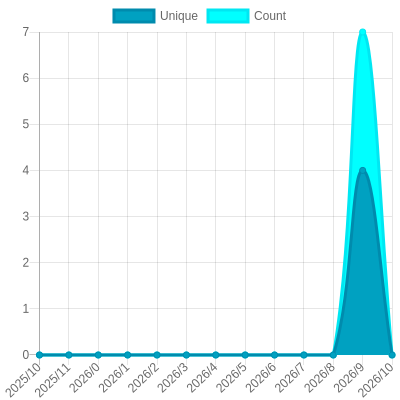
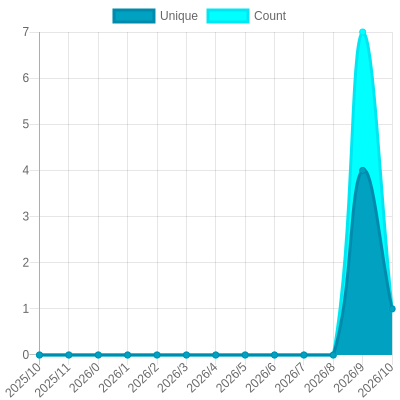
Update views

Changed region(s): [[0.87, 0.21, 0.99, 0.9]]

diff --git a/README.md b/README.md
@@ -26,7 +26,7 @@ The project created and maintained by [gayanvoice](https://github.com/gayanvoice
 			</a>
 		</td>
 		<td>
-			2025/11/2 6:53 PM UTC
+			2025/11/3 3:41 AM UTC
 		</td>
 		<td>
 			5
@@ -42,18 +42,18 @@ The project created and maintained by [gayanvoice](https://github.com/gayanvoice
 			</a>
 		</td>
 		<td>
-			2025/11/2 6:54 PM UTC
+			2025/11/3 3:41 AM UTC
 		</td>
 		<td>
-			4
+			5
 		</td>
 		<td>
-			<img alt="Response time graph" src="https://github.com/yy-Hu-xjtu/my-views-counter/raw/master/graph/1084704624/small/year.png" height="20"> 7
+			<img alt="Response time graph" src="https://github.com/yy-Hu-xjtu/my-views-counter/raw/master/graph/1084704624/small/year.png" height="20"> 8
 		</td>
 	</tr>
 </table>
 
-<small><i>Last updated on 2025/11/5 6:54 PM UTC</i></small>
+<small><i>Last updated on 2025/11/6 3:41 AM UTC</i></small>
 
 ## ✂Copy and 📋 Paste
 ### Total Views Badge

diff --git a/readme/1084704624/year.md b/readme/1084704624/year.md
@@ -23,10 +23,10 @@
 			<code>2025/11/1</code>
 		</td>
 		<td>
-			<code>0</code>
+			<code>1</code>
 		</td>
 		<td>
-			<code>0</code>
+			<code>1</code>
 		</td>
 	</tr>
 	<tr>
@@ -164,7 +164,7 @@
 </table>
 
 </details>
-<small><i>Last updated on 2025/11/5 6:54 PM UTC</i></small>
+<small><i>Last updated on 2025/11/6 3:41 AM UTC</i></small>
 
 ## ✂Copy and 📋 Paste
 ### SVG Badge

diff --git a/readme/1084707163/year.md b/readme/1084707163/year.md
@@ -164,7 +164,7 @@
 </table>
 
 </details>
-<small><i>Last updated on 2025/11/5 6:53 PM UTC</i></small>
+<small><i>Last updated on 2025/11/6 3:41 AM UTC</i></small>
 
 ## ✂Copy and 📋 Paste
 ### SVG Badge
